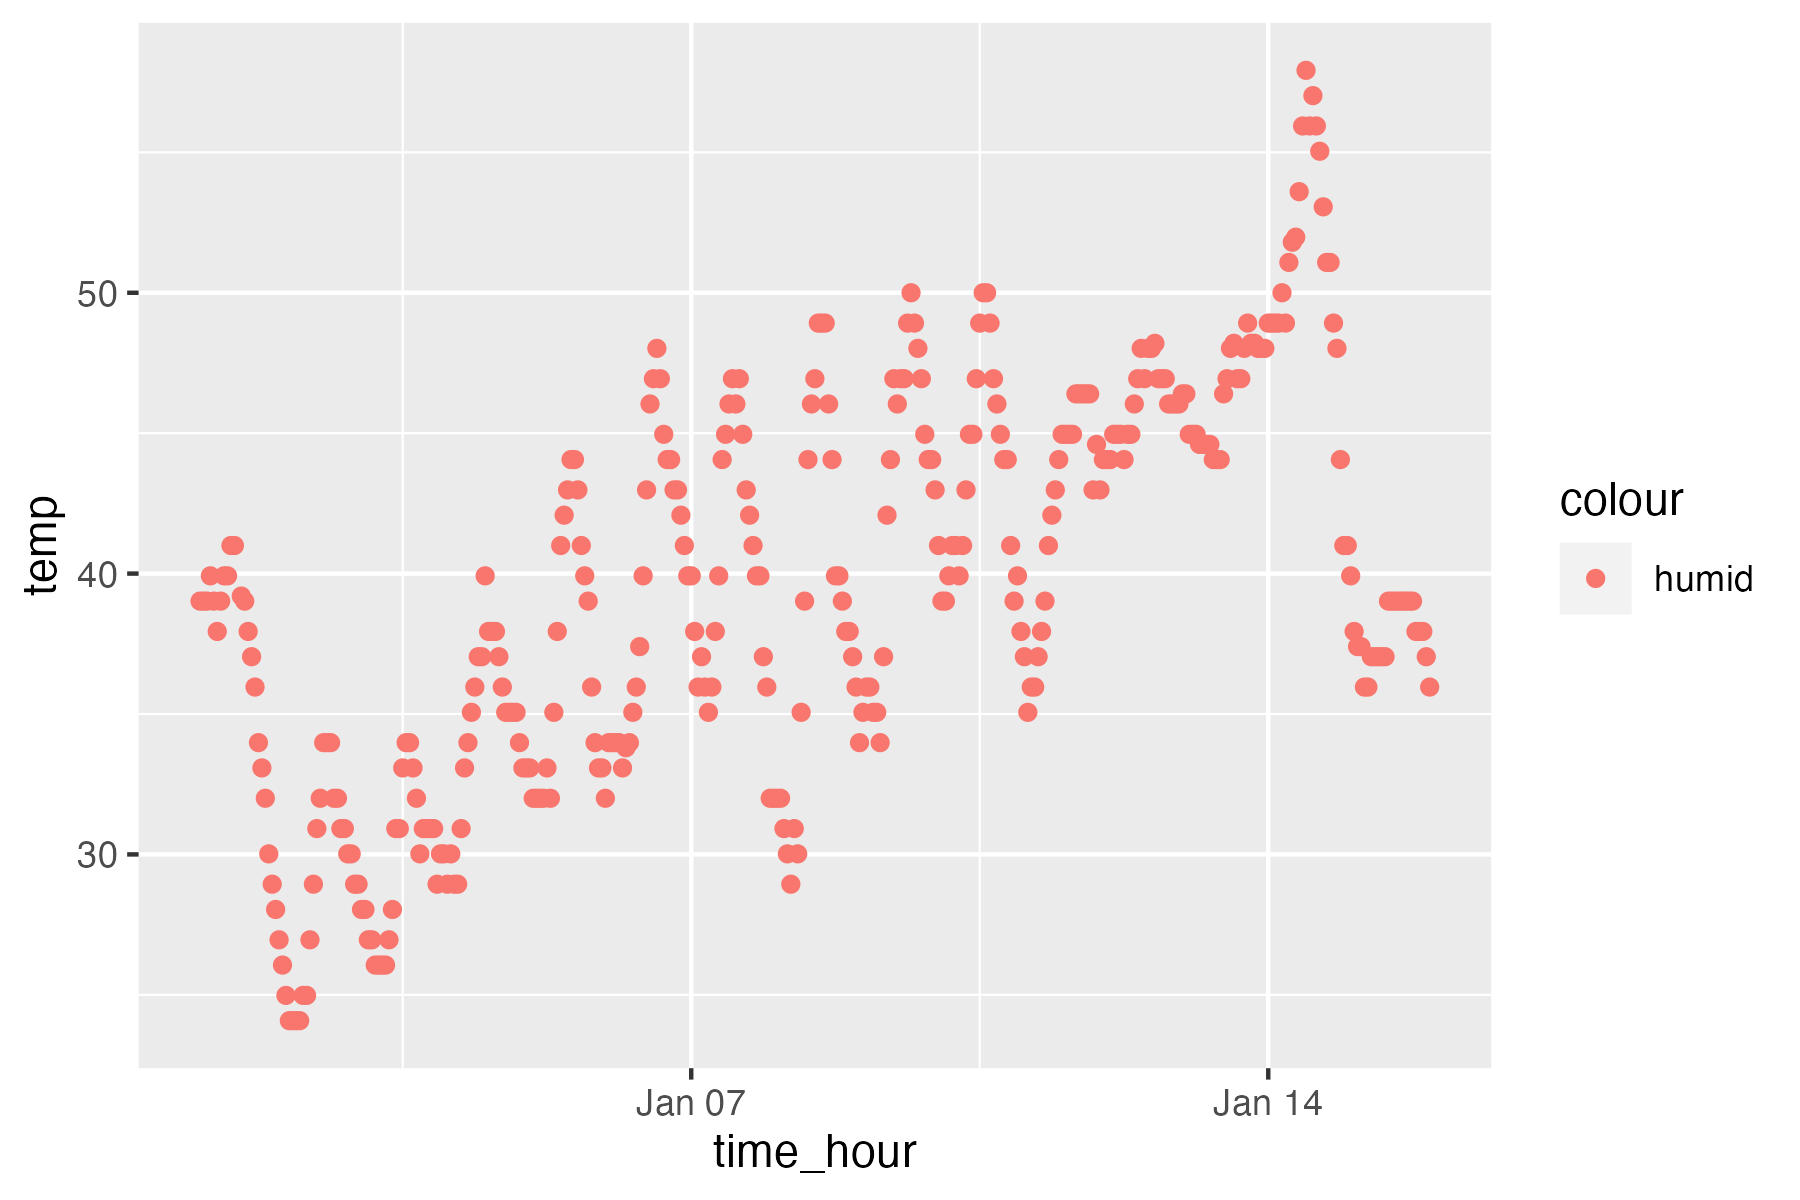
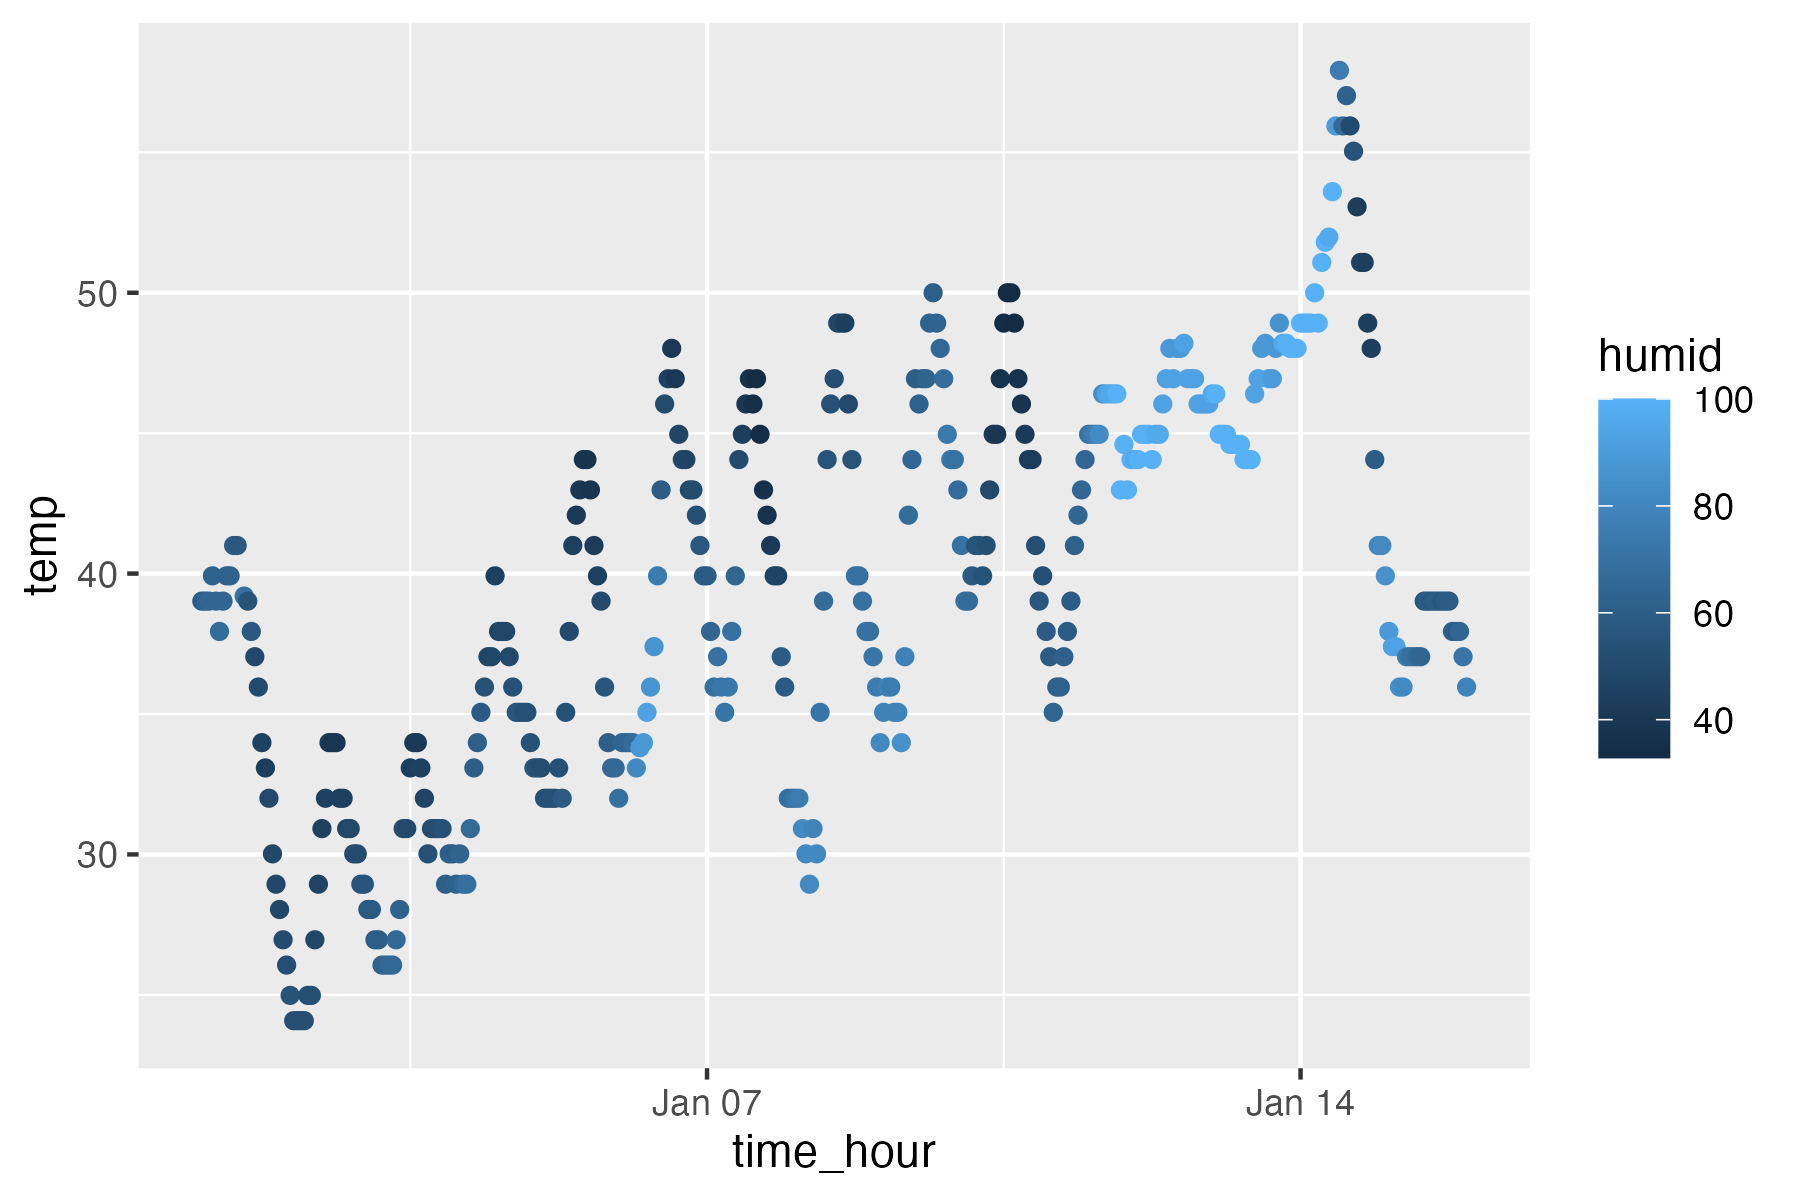
Changed to inline R code, added as.factor().

diff --git a/p8105_hw1_yc4384.md b/p8105_hw1_yc4384.md
@@ -5,88 +5,64 @@ Yangyang Chen
 
 ## Problem_1
 
+\#Introduce the dataset
+
 ``` r
-#Introduce the dataset
 library(moderndive)
 data("early_january_weather") #load dataset
-str(early_january_weather) #the variables in this dataset, including names / values of important variables
+summary(early_january_weather) #the variables in this dataset, including names / values of important variables
 ```
 
-    ## tibble [358 × 15] (S3: tbl_df/tbl/data.frame)
-    ##  $ origin    : chr [1:358] "EWR" "EWR" "EWR" "EWR" ...
-    ##  $ year      : int [1:358] 2013 2013 2013 2013 2013 2013 2013 2013 2013 2013 ...
-    ##  $ month     : int [1:358] 1 1 1 1 1 1 1 1 1 1 ...
-    ##  $ day       : int [1:358] 1 1 1 1 1 1 1 1 1 1 ...
-    ##  $ hour      : int [1:358] 1 2 3 4 5 6 7 8 9 10 ...
-    ##  $ temp      : num [1:358] 39 39 39 39.9 39 ...
-    ##  $ dewp      : num [1:358] 26.1 27 28 28 28 ...
-    ##  $ humid     : num [1:358] 59.4 61.6 64.4 62.2 64.4 ...
-    ##  $ wind_dir  : num [1:358] 270 250 240 250 260 240 240 250 260 260 ...
-    ##  $ wind_speed: num [1:358] 10.36 8.06 11.51 12.66 12.66 ...
-    ##  $ wind_gust : num [1:358] NA NA NA NA NA NA NA NA NA NA ...
-    ##  $ precip    : num [1:358] 0 0 0 0 0 0 0 0 0 0 ...
-    ##  $ pressure  : num [1:358] 1012 1012 1012 1012 1012 ...
-    ##  $ visib     : num [1:358] 10 10 10 10 10 10 10 10 10 10 ...
-    ##  $ time_hour : POSIXct[1:358], format: "2013-01-01 01:00:00" "2013-01-01 02:00:00" ...
-
-``` r
-nrow(early_january_weather) #the size of the dataset
-```
-
-    ## [1] 358
-
-``` r
-ncol(early_january_weather) # the size of the dataset
-```
-
-    ## [1] 15
-
-``` r
-attach(early_january_weather) #Make a scatterplot of temp (y) vs time_hour (x)
-```
-
-    ## The following objects are masked from package:datasets:
+    ##     origin               year          month        day              hour      
+    ##  Length:358         Min.   :2013   Min.   :1   Min.   : 1.000   Min.   : 0.00  
+    ##  Class :character   1st Qu.:2013   1st Qu.:1   1st Qu.: 4.000   1st Qu.: 6.00  
+    ##  Mode  :character   Median :2013   Median :1   Median : 8.000   Median :11.50  
+    ##                     Mean   :2013   Mean   :1   Mean   : 8.039   Mean   :11.53  
+    ##                     3rd Qu.:2013   3rd Qu.:1   3rd Qu.:12.000   3rd Qu.:17.75  
+    ##                     Max.   :2013   Max.   :1   Max.   :15.000   Max.   :23.00  
+    ##                                                                                
+    ##       temp            dewp           humid           wind_dir    
+    ##  Min.   :24.08   Min.   : 8.96   Min.   : 32.86   Min.   :  0.0  
+    ##  1st Qu.:33.98   1st Qu.:19.94   1st Qu.: 51.34   1st Qu.:140.0  
+    ##  Median :39.02   Median :26.06   Median : 61.67   Median :240.0  
+    ##  Mean   :39.58   Mean   :28.06   Mean   : 65.48   Mean   :208.2  
+    ##  3rd Qu.:44.96   3rd Qu.:35.06   3rd Qu.: 78.68   3rd Qu.:290.0  
+    ##  Max.   :57.92   Max.   :53.06   Max.   :100.00   Max.   :360.0  
+    ##                                                   NA's   :5      
+    ##    wind_speed       wind_gust         precip            pressure   
+    ##  Min.   : 0.000   Min.   :16.11   Min.   :0.000000   Min.   :1011  
+    ##  1st Qu.: 5.754   1st Qu.:19.56   1st Qu.:0.000000   1st Qu.:1018  
+    ##  Median : 8.055   Median :21.86   Median :0.000000   Median :1022  
+    ##  Mean   : 8.226   Mean   :22.53   Mean   :0.002039   Mean   :1023  
+    ##  3rd Qu.:11.508   3rd Qu.:25.32   3rd Qu.:0.000000   3rd Qu.:1027  
+    ##  Max.   :24.166   Max.   :31.07   Max.   :0.190000   Max.   :1034  
+    ##                   NA's   :308                        NA's   :38    
+    ##      visib          time_hour                     
+    ##  Min.   : 0.120   Min.   :2013-01-01 01:00:00.00  
+    ##  1st Qu.: 9.000   1st Qu.:2013-01-04 19:15:00.00  
+    ##  Median :10.000   Median :2013-01-08 12:30:00.00  
+    ##  Mean   : 8.515   Mean   :2013-01-08 12:28:09.39  
+    ##  3rd Qu.:10.000   3rd Qu.:2013-01-12 05:45:00.00  
+    ##  Max.   :10.000   Max.   :2013-01-15 23:00:00.00  
     ## 
-    ##     precip, pressure
 
-``` r
-mean(temp)#The mean
-```
-
-    ## [1] 39.58212
-
-``` r
-cat("There are 15 variables in the dataset. The variable 'origin' is an character type variable, and variable 'wind_gust' includes all NA values.")
-```
-
-    ## There are 15 variables in the dataset. The variable 'origin' is an character type variable, and variable 'wind_gust' includes all NA values.
-
-``` r
-cat("The dataset has 358 rows and 15 columns.")
-```
-
-    ## The dataset has 358 rows and 15 columns.
-
-``` r
-cat("The mean of 'temp' is 39.58212.")
-```
-
-    ## The mean of 'temp' is 39.58212.
+- There are 15 variables in the dataset. The variable ‘origin’ is an
+  character type variable, and variable ‘wind_gust’ includes all NA
+  values.
+- The dataset has 358 rows and 15 columns.
+- The mean of ‘temp’ is 39.58.
 
 ``` r
 #Scatterplot of dataset and save image
 library(ggplot2)
-scatter_plot = ggplot(early_january_weather, aes(x = time_hour, y= temp, color = 'humid')) #color points using the humid variable
+scatter_plot = ggplot(early_january_weather, aes(x = time_hour, y= temp, color = humid)) #color points using the humid variable
 scatter_plot + geom_point()
 ```
 
-![](p8105_hw1_yc4384_files/figure-gfm/unnamed-chunk-1-1.png)<!-- -->
+![](p8105_hw1_yc4384_files/figure-gfm/unnamed-chunk-2-1.png)<!-- -->
 
-``` r
-cat("The temperature is fluctuated increasing from 30 to 50 on Jan_01 to Jan_15.")
-```
-
-    ## The temperature is fluctuated increasing from 30 to 50 on Jan_01 to Jan_15.
+- The temperature is non-stationary, and it is periodically fluctuated
+  increasing from Jan_01 to Jan_15.
 
 ``` r
 ggsave("scatterplot.png", plot = scatter_plot + geom_point(), width = 6, height = 4) #Export scatterplot to the project directory
@@ -99,22 +75,22 @@ ggsave("scatterplot.png", plot = scatter_plot + geom_point(), width = 6, height 
 v1 = rnorm(10) #a random sample of size 10 from a standard Normal distribution
 v2 = ifelse(v1>0, "T", "F") #a logical vector indicating whether elements of the sample are greater than 0
 v3 = c('a','b','c','d','e','f','g','h','i','j') #a character vector of length 10
-v4 = c('1','2','3','3','2','1','2','3','1','3') #a factor vector of length 10, with 3 different factor “levels”
+v4 = as.factor(c(1,2,3,3,2,1,2,3,1,3)) #a factor vector of length 10, with 3 different factor “levels”
 df = data.frame(v1,v2,v3,v4) #create a data frame
 df
 ```
 
-    ##            v1 v2 v3 v4
-    ## 1   0.9076425  T  a  1
-    ## 2   1.9961019  T  b  2
-    ## 3   0.8388730  T  c  3
-    ## 4  -1.0151161  F  d  3
-    ## 5  -1.2074657  F  e  2
-    ## 6   0.7963211  T  f  1
-    ## 7  -0.4197066  F  g  2
-    ## 8   2.3833482  T  h  3
-    ## 9   1.1888860  T  i  1
-    ## 10 -0.3716737  F  j  3
+    ##             v1 v2 v3 v4
+    ## 1   0.53938322  T  a  1
+    ## 2   0.05687582  T  b  2
+    ## 3   1.77571543  T  c  3
+    ## 4  -0.48520543  F  d  3
+    ## 5   2.48446293  T  e  2
+    ## 6   1.26753278  T  f  1
+    ## 7   0.09802929  T  g  2
+    ## 8  -1.73143824  F  h  3
+    ## 9   0.27633990  T  i  1
+    ## 10 -0.34926902  F  j  3
 
 ``` r
 #Compute mean of each vector
@@ -136,7 +112,7 @@ vector <- df %>% pull(v1)
 mean(vector)
 ```
 
-    ## [1] 0.5097211
+    ## [1] 0.3932427
 
 ``` r
 vector <- df %>% pull(v2)
@@ -171,21 +147,17 @@ mean(vector)
 ``` r
 # Convert variables from one type to another and calculate their means
 vector <- df %>% pull(v2)
-mean(as.numeric(vector))
+mean(as.numeric(as.factor(vector)))
 ```
 
-    ## Warning in mean(as.numeric(vector)): NAs introduced by coercion
-
-    ## [1] NA
+    ## [1] 1.7
 
 ``` r
 vector <- df %>% pull(v3)
-mean(as.numeric(vector))
+mean(as.numeric(as.factor(vector)))
 ```
 
-    ## Warning in mean(as.numeric(vector)): NAs introduced by coercion
-
-    ## [1] NA
+    ## [1] 5.5
 
 ``` r
 vector <- df %>% pull(v4)
@@ -194,8 +166,5 @@ mean(as.numeric(vector))
 
     ## [1] 2.1
 
-``` r
-print("Because v2 and v3 still are NA values after coercion, therefore they don't have mean values.")
-```
-
-    ## [1] "Because v2 and v3 still are NA values after coercion, therefore they don't have mean values."
+- Since v2 and v3 are converted to numeric values. their means can be
+  computed.
